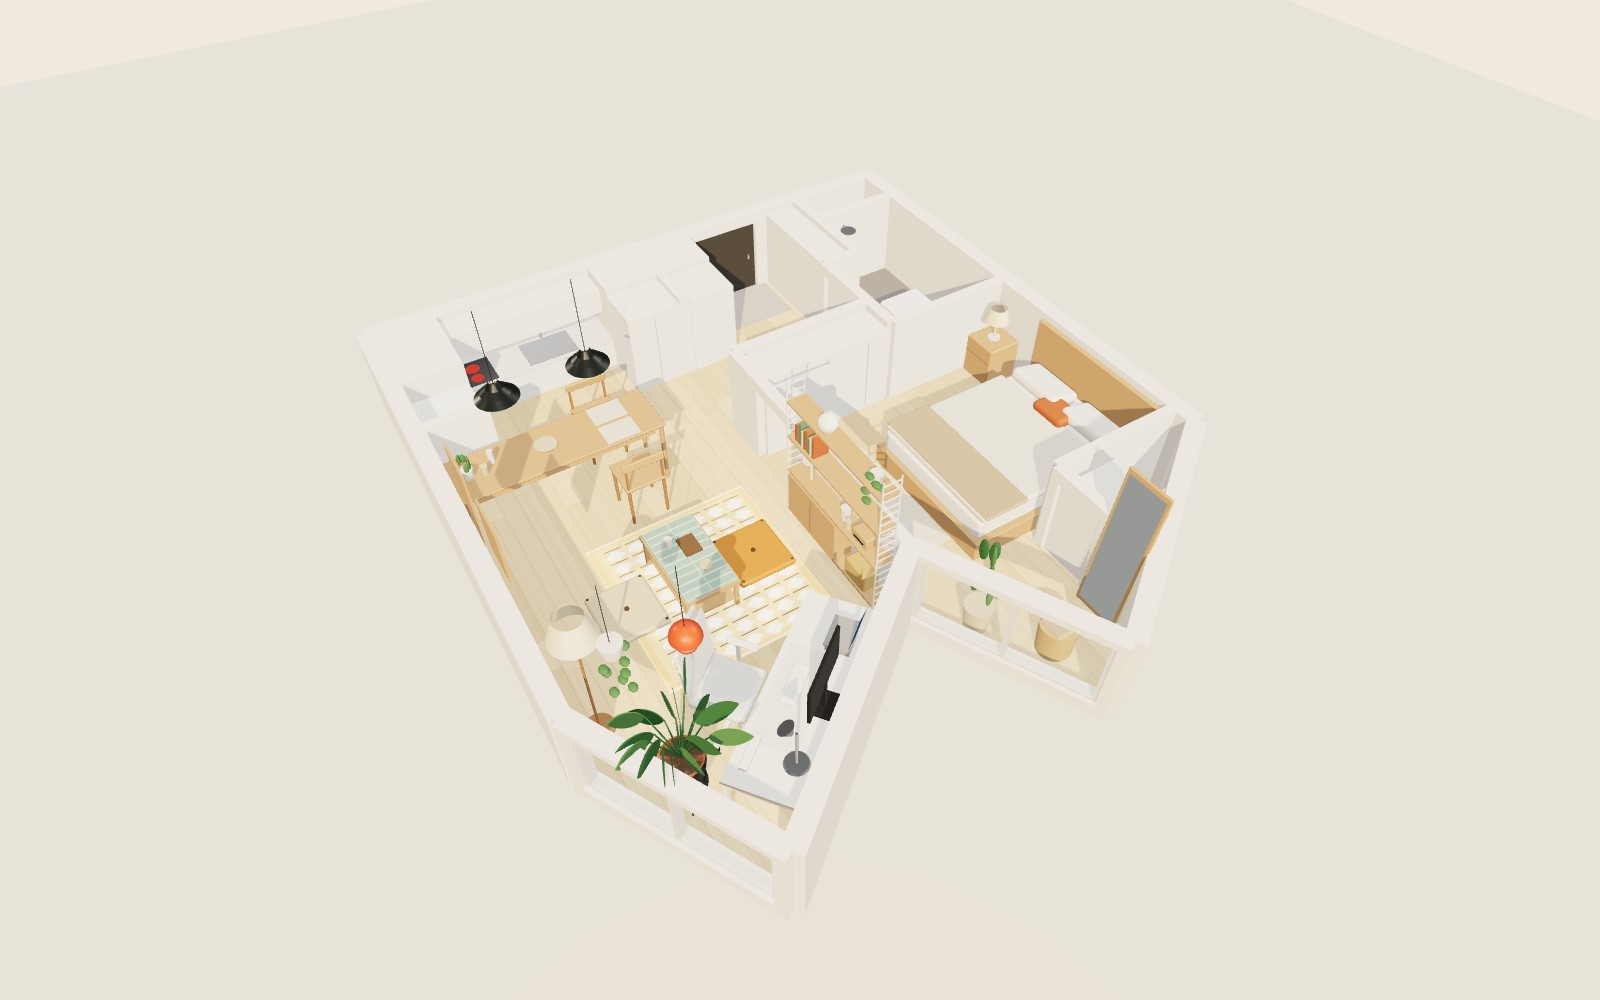
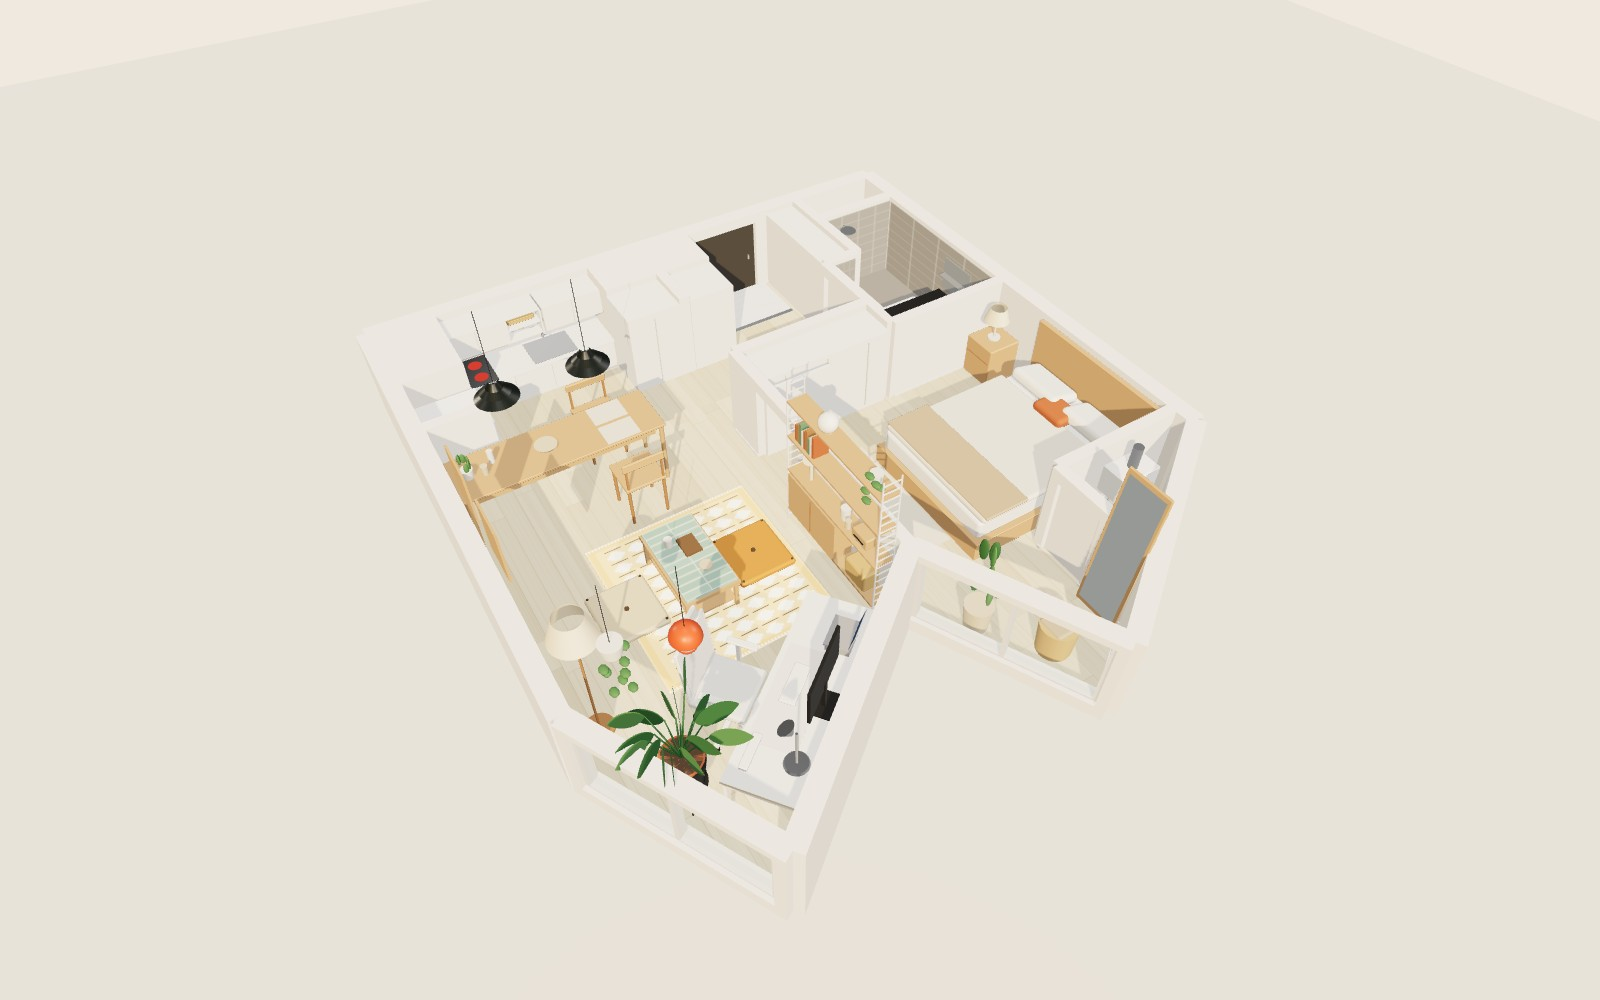
Reflect real 36-type details from move-in photos (kitchen, entrance, trims, boiler room)

diff --git a/index.html b/index.html
@@ -67,7 +67,7 @@
   · 퀸 침대 150×200 (헤드 오른쪽 벽, 아래벽 쪽으로 붙임 → 붙박이장 앞 68cm)<br>
   · 협탁 + 플리츠 스탠드, 러그, 전신거울, 화분
   <div class="sec">기본 설비 (도면 기준)</div>
-  · 주방 상·하부장, 냉장고 자리, 신발장, 붙박이장, 욕실, 다용도실
+  · 주방: 흰 하부장·쿼츠 상판·대리석풍 벽타일, 2구 인덕션 아래 드럼세탁기, 흰 2도어 냉장고<br>· 현관 대리석 타일, 흰 걸레받이·몰딩, 천장 환기장치, 보일러실(루버창)<br>· (블로그 실사진 36형 기준)
 </div>
 <div id="note" class="panel">
   마우스 드래그 = 회전 · 휠 = 확대 · 오른쪽 드래그 = 이동<br>
@@ -145,7 +145,7 @@ const floorTex = canvasTex(1024, 1024, (g, w, h) => {
     while (x < w) {
       const len = 700 + Math.floor(r() * 500);
       const base = 205 + Math.floor(r() * 20);
-      g.fillStyle = `rgb(${base + 22},${base - 6},${base - 52})`;
+      g.fillStyle = `rgb(${base + 12},${base - 2},${base - 34})`;
       g.fillRect(x, y, len, plank);
       for (let i = 0; i < 14; i++) {
         g.strokeStyle = `rgba(150,105,60,${0.05 + r() * 0.07})`;
@@ -210,6 +210,32 @@ const sheepTex = canvasTex(128, 128, (g, w, h) => {
   for (let i = 0; i < 900; i++) { g.fillStyle = i % 3 ? "rgba(255,255,255,0.7)" : "rgba(228,220,206,0.35)"; g.beginPath(); g.arc(r() * w, r() * h, 1 + r() * 3, 0, 7); g.fill(); }
 });
 
+const marbleTex = canvasTex(512, 512, (g, w, h) => {
+  g.fillStyle = "#f4f3f0"; g.fillRect(0, 0, w, h);
+  const r = rnd(31);
+  for (let i = 0; i < 14; i++) {
+    g.strokeStyle = `rgba(150,150,150,${0.15 + r() * 0.25})`; g.lineWidth = 0.6 + r() * 1.6;
+    g.beginPath(); let x = r() * w, y = 0; g.moveTo(x, y);
+    while (y < h) { x += (r() - 0.35) * 40; y += 20 + r() * 30; g.lineTo(x, y); } g.stroke();
+  }
+  g.strokeStyle = "rgba(170,170,170,0.6)"; g.lineWidth = 2; g.strokeRect(0, 0, w, h); g.beginPath(); g.moveTo(w / 2, 0); g.lineTo(w / 2, h); g.stroke();
+}, [1, 1]);
+const stoneTex = canvasTex(512, 256, (g, w, h) => {
+  g.fillStyle = "#ddd7cd"; g.fillRect(0, 0, w, h);
+  const r = rnd(41);
+  for (let i = 0; i < 40; i++) { g.strokeStyle = `rgba(245,240,232,${0.2 + r() * 0.3})`; g.lineWidth = 1 + r() * 3; g.beginPath(); const y = r() * h; g.moveTo(0, y); g.bezierCurveTo(w * 0.3, y + (r() - 0.5) * 30, w * 0.7, y + (r() - 0.5) * 30, w, y + (r() - 0.5) * 20); g.stroke(); }
+  g.strokeStyle = "rgba(160,150,140,0.7)"; g.lineWidth = 2; for (let x = 0; x <= w; x += w / 3) { g.beginPath(); g.moveTo(x, 0); g.lineTo(x, h); g.stroke(); } g.strokeRect(0, 0, w, h);
+});
+const quartzTex = canvasTex(256, 256, (g, w, h) => {
+  g.fillStyle = "#f3f0ea"; g.fillRect(0, 0, w, h); const r = rnd(51);
+  for (let i = 0; i < 700; i++) { g.fillStyle = `rgba(${150 + r() * 60},${140 + r() * 60},${130 + r() * 60},0.5)`; g.fillRect(r() * w, r() * h, 1 + r() * 2, 1 + r() * 2); }
+}, [3, 1]);
+const bathTileTex = canvasTex(256, 512, (g, w, h) => {
+  g.fillStyle = "#9b9a97"; g.fillRect(0, 0, w, h); const r = rnd(61);
+  for (let i = 0; i < 1500; i++) { g.fillStyle = `rgba(${120 + r() * 50},${120 + r() * 50},${118 + r() * 50},0.35)`; g.fillRect(r() * w, r() * h, 2, 2); }
+  g.strokeStyle = "rgba(220,220,215,0.8)"; g.lineWidth = 3; for (let y = 0; y <= h; y += h / 4) { g.beginPath(); g.moveTo(0, y); g.lineTo(w, y); g.stroke(); } for (let x = 0; x <= w; x += w / 2) { g.beginPath(); g.moveTo(x, 0); g.lineTo(x, h); g.stroke(); }
+}, [2, 2]);
+
 // ---------- 재질 ----------
 const M = (color, o = {}) => new THREE.MeshStandardMaterial({ color, roughness: 0.75, metalness: 0, ...o });
 const mat = {
@@ -258,6 +284,12 @@ const mat = {
   mirror: M("#e3ecef", { roughness: 0.04, metalness: 0.9 }),
 };
 const lampShades = [];
+mat.marble = new THREE.MeshStandardMaterial({ map: marbleTex, roughness: 0.1 });
+mat.stone = new THREE.MeshStandardMaterial({ map: stoneTex, roughness: 0.35 });
+mat.quartz = new THREE.MeshStandardMaterial({ map: quartzTex, roughness: 0.3 });
+mat.bathTile = new THREE.MeshStandardMaterial({ map: bathTileTex, roughness: 0.5 });
+mat.darkTile = M("#5d6062", { roughness: 0.7 });
+mat.seam = M("#d8d4cc", { roughness: 0.8 });
 const tall = []; // 벽 낮추기 때 같이 낮출 키 큰 고정물
 const ceils = []; // 천장·창밖 (벽 낮추기 때 숨김)
 const curtains = [];
@@ -337,8 +369,9 @@ floor(livingPoly, mat.floor);
 floor(bedPoly, mat.floor);
 floor([[953, 280], [1062, 280], [1062, 490], [910, 490], [910, 362], [953, 362]], mat.bathFloor, 0.5);
 floor([[953, 224], [1062, 224], [1062, 280], [953, 280]], mat.tileFloor);
-floor([[912, 739], [1062, 739], [1062, 762], [912, 860]], mat.tileFloor, 0.5);
-floor([[812, 224], [905, 224], [905, 300], [812, 300]], mat.tileFloor, 1);
+floor([[912, 739], [1062, 739], [1062, 762], [912, 860]], mat.darkTile, 0.5);
+floor([[812, 224], [905, 224], [905, 300], [812, 300]], mat.marble, 1);
+{ const th = place(858, 300, 0, 1); B(th, 93, 1.6, 3, mat.chrome, 0, 0, 0); }
 // 바깥 바닥(그림자 받는 판)
 const ground = new THREE.Mesh(new THREE.PlaneGeometry(30, 30), new THREE.MeshStandardMaterial({ color: "#e6dfd3", roughness: 1 }));
 ground.rotation.x = -Math.PI / 2; ground.position.set(cm(750), -0.01, cm(570)); ground.receiveShadow = false; scene.add(ground);
@@ -380,19 +413,41 @@ wall(746, 224, 746, 340, IN);                                                   
 }
 
 // ---------- 주방 · 수납 (도면 기준) ----------
-{ // 하부장 + 상판
+{ // 주방: 손잡이 없는 흰 하부장 + 쿼츠 상판 + 대리석풍 벽타일 + 인덕션 아래 드럼세탁기 + 상부장(가운데 오픈 선반)
   const g = place(592, 233, 0, 1, true);
   B(g, 174, 84, 53, mat.white, 0, 0, 26.5);
-  B(g, 176, 4, 55, M("#e5e1da", { roughness: 0.35 }), 0, 84, 27.5);
-  B(g, 40, 0.6, 42, mat.cooktop, -64, 88, 28);
-  CY(g, 8, 8, 0.4, mat.ring, -64, 88.5, 20); CY(g, 7, 7, 0.4, mat.ring, -64, 88.5, 38);
-  B(g, 56, 1, 40, mat.steel, 20, 87.6, 28);
-  CY(g, 1.3, 1.3, 26, mat.chrome, 20, 88, 6);
-  // 상부장
-  B(g, 174, 70, 34, mat.white, 0, 150, 17);
+  for (const sx of [-29, 13, 50]) B(g, 0.6, 74, 0.6, mat.seam, sx, 8, 53.4);
+  B(g, 174, 8, 1, M("#e6e2da"), 0, 0, 50);
+  // 드럼세탁기 (인덕션 아래, 왼쪽 끝)
+  B(g, 56, 80, 1, mat.whiteGloss, -58, 3, 53.6);
+  const dr = CY(g, 14, 14, 2, M("#2f3a40", { roughness: 0.08, metalness: 0.3 }), -58, 34, 54.6, 32); dr.rotation.x = Math.PI / 2;
+  const rg = CY(g, 16.5, 16.5, 1.2, mat.chrome, -58, 34.4, 54.2, 32); rg.rotation.x = Math.PI / 2;
+  B(g, 50, 6, 0.8, M("#e9e9e9"), -58, 72, 54.2);
+  // 쿼츠 상판 + 대리석풍 벽타일
+  B(g, 176, 4, 55, mat.quartz, 0, 84, 27.5);
+  const bs = new THREE.Mesh(new THREE.PlaneGeometry(cm(174), cm(62)), mat.stone); bs.position.set(0, cm(119), cm(0.5)); g.add(bs);
+  // 2구 인덕션 (세탁기 위)
+  B(g, 30, 0.6, 50, mat.cooktop, -60, 88, 27);
+  CY(g, 7.5, 7.5, 0.3, mat.ring, -60, 88.6, 16); CY(g, 7.5, 7.5, 0.3, mat.ring, -60, 88.6, 38);
+  // 사각 싱크볼 + 거위목 수전
+  B(g, 50, 1, 40, mat.steel, 22, 87.6, 28);
+  CY(g, 1.3, 1.3, 30, mat.chrome, 22, 88, 6); B(g, 2.4, 2.4, 15, mat.chrome, 22, 116, 13);
+  // 상부장: 왼쪽 문 / 가운데 오픈 선반 / 오른쪽 문
+  B(g, 68, 70, 34, mat.white, -53, 150, 17); B(g, 0.6, 66, 0.6, mat.seam, -53, 152, 34.4);
+  B(g, 40, 70, 1, mat.white, -1, 150, 0.5); B(g, 1.6, 70, 34, mat.white, -20.2, 150, 17); B(g, 1.6, 70, 34, mat.white, 18.2, 150, 17);
+  for (const hh of [150, 184, 218.4]) B(g, 40, 1.6, 34, mat.white, -1, hh, 17);
+  CY(g, 4, 3.5, 9, mat.ceramic, -10, 151.6, 14); CY(g, 4, 3.5, 9, mat.ceramic2, -1, 151.6, 14); CY(g, 6, 4, 5, mat.ceramic, 9, 151.6, 16);
+  B(g, 30, 12, 20, mat.rattan, -1, 185.6, 15, 2);
+  B(g, 66, 70, 34, mat.white, 54, 150, 17); B(g, 0.6, 66, 0.6, mat.seam, 54, 152, 34.4);
+  // 숨은형 후드 + 상부장 아래 간접조명
+  B(g, 60, 4, 30, M("#d9d9d9", { roughness: 0.4, metalness: 0.4 }), -53, 146, 18);
+}
+{ // 주방 천장 일자 LED
+  const led = new THREE.Mesh(new THREE.BoxGeometry(cm(120), cm(1.5), cm(10)), new THREE.MeshStandardMaterial({ color: "#ffffff", emissive: "#fff8ec", emissiveIntensity: 0.8 }));
+  led.position.set(cm(600), cm(H - 1), cm(318)); scene.add(led); window.__kitchenLed = led; ceils.push(led);
 }
 { const g = place(476, 233, 0, 1, true); B(g, 70, H, 90, mat.wall, 0, 0, 45); }        // 도면상 막힌 칸 (샤프트 추정)
-{ const g = place(452, 356, 1, 0, true); B(g, 62, 182, 58, mat.whiteGloss, 0, 0, 29); }  // 냉장고 자리
+{ const g = place(452, 356, 1, 0, true); B(g, 60, 168, 62, mat.whiteGloss, 0, 0, 31, 1.5); B(g, 60, 0.6, 0.6, mat.seam, 0, 122, 62.4); B(g, 2, 26, 2.5, M("#cfcac2"), 24, 88, 63); B(g, 2, 20, 2.5, M("#cfcac2"), 24, 128, 63); }  // 냉장고 자리
 { const a = place(710, 286, 0, 1, true); B(a, 61, 225, 54, mat.white, 0, 0, 27); B(a, 1, 200, 1, M("#d8d3cb"), 0, 10, 54.5);   // 키큰 수납장 1
   const b = place(779, 286, 0, 1, true); B(b, 53, 225, 54, mat.white, 0, 0, 27);                                            // 키큰 수납장 2
   const v = place(743, 224, 0, 1, true); B(v, 125, H, 61, mat.wall, 0, 0, 30.5); }                                           // 위쪽 막힌 칸 (샤프트 추정)
@@ -402,13 +457,22 @@ wall(746, 224, 746, 340, IN);                                                   
 { // 욕실
   const t = place(1025, 486, 0, -1); // 변기
   B(t, 38, 40, 20, mat.whiteGloss, 0, 0, 10, 6); B(t, 36, 38, 46, mat.whiteGloss, 0, 0, 36, 12);
-  const v = place(950, 486, 0, -1); B(v, 60, 82, 46, mat.white, 0, 0, 23); B(v, 50, 12, 38, mat.whiteGloss, 0, 82, 22, 5);
+  const v = place(950, 484, 0, -1); B(v, 50, 16, 40, mat.whiteGloss, 0, 68, 20, 6); B(v, 72, 3, 14, M("#232323", { roughness: 0.3 }), 0, 98, 7); CY(v, 1.2, 1.2, 14, mat.chrome, 0, 84, 8);
+  const tw = place(1052, 425, -1, 0, true); B(tw, 46, 92, 1.5, M("#c6cacd", { roughness: 0.3, metalness: 0.6 }), 0, 100, 1); B(tw, 42, 1.2, 10, M("#c6cacd", { roughness: 0.3, metalness: 0.6 }), 0, 146, 5);
   const gl = new THREE.Mesh(new THREE.BoxGeometry(cm(100), cm(200), cm(1)), mat.glass); gl.position.set(cm(1005), cm(100), cm(364)); scene.add(gl); curtains.push(gl);
   const sh = place(985, 284, 0, 1, true); CY(sh, 1, 1, 180, mat.chrome, 0, 20, 4); CY(sh, 9, 9, 2, mat.chrome, 0, 195, 14);
 }
-{ // 다용도실 세탁기
-  const g = place(976, 778, -1, 0); B(g, 58, 85, 58, mat.whiteGloss, 0, 0, 29, 3);
-  CY(g, 15, 15, 2, M("#8fa3ad", { roughness: 0.1 }), 0, 40, 58).rotation.x = Math.PI / 2;
+{ // 보일러실: 벽걸이 보일러 + 배관 + 연도
+  const g = place(990, 745, 0, 1, true);
+  B(g, 44, 72, 30, mat.whiteGloss, 0, 108, 15, 2);
+  for (const [x, c] of [[-14, "#c9c9c9"], [-5, "#e0b33a"], [5, "#c9c9c9"], [14, "#c9c9c9"]]) CY(g, 1.2, 1.2, 40, M(c, { roughness: 0.4, metalness: 0.3 }), x, 68, 12, 10);
+  CY(g, 5, 5, 58, mat.chrome, 0, 180, 15, 16);
+}
+{ // 보일러실 루버창 (검정 가로 날개)
+  const x1 = 832, y1 = 912, x2 = 1062, y2 = 762, L = Math.hypot(x2 - x1, y2 - y1), ux = (x2 - x1) / L, uy = (y2 - y1) / L, c = 185;
+  const grp = new THREE.Group(); grp.position.set(cm(x1 + ux * c), 0, cm(y1 + uy * c)); grp.rotation.y = -Math.atan2(uy, ux); wallGroup.add(grp);
+  const lm = M("#2b2d2f", { roughness: 0.5 });
+  for (let h = 95; h < 202; h += 8) { const sl = B(grp, 62, 1, 6, lm, 0, h, 0); sl.rotation.x = 0.5; }
 }
 
 // ---------- 거실: 화이트 장책상 (꺾인 막힌 벽) ----------
@@ -662,6 +726,45 @@ railing(441, 742, 530, 912, 30); railing(747, 745, 832, 912, 40);
   const pl = new THREE.PointLight("#ffb46a", 0, 3, 2); pl.position.set(0, cm(150), 0); fp.add(pl); window.__flowerpot = pl;
 }
 
+// ---------- 걸레받이 · 천장 몰딩 (실사진: 흰색) ----------
+{
+  const OUTER = [[441, 224, 1062, 224], [441, 224, 441, 742], [441, 742, 530, 912], [530, 912, 747, 745], [747, 745, 832, 912], [832, 912, 1062, 762], [1062, 224, 1062, 762]];
+  const DOORS = [[815, 224, 895, 224], [747, 500, 747, 578], [910, 370, 910, 438], [912, 749, 912, 801]];
+  const segDist = (px, py, [x1, y1, x2, y2]) => { const dx = x2 - x1, dy = y2 - y1, t = Math.max(0, Math.min(1, ((px - x1) * dx + (py - y1) * dy) / (dx * dx + dy * dy))); return Math.hypot(px - x1 - t * dx, py - y1 - t * dy); };
+  const inside = (poly, x, y) => { let c = false; for (let i = 0, j = poly.length - 1; i < poly.length; j = i++) { const [xi, yi] = poly[i], [xj, yj] = poly[j]; if (((yi > y) !== (yj > y)) && (x < ((xj - xi) * (y - yi)) / (yj - yi) + xi)) c = !c; } return c; };
+  const bm = M("#f7f5f1", { roughness: 0.5 });
+  function trim(poly, withBase, withCrown, panelMat) {
+    for (let i = 0; i < poly.length; i++) {
+      const [ax, ay] = poly[i], [bx, by] = poly[(i + 1) % poly.length];
+      const L = Math.hypot(bx - ax, by - ay), ux = (bx - ax) / L, uy = (by - ay) / L;
+      let nx = -uy, ny = ux; const mx = (ax + bx) / 2, my = (ay + by) / 2;
+      if (!inside(poly, mx + nx * 5, my + ny * 5)) { nx = -nx; ny = -ny; }
+      const off = OUTER.some((sg) => segDist(mx, my, sg) < 3) ? 9.1 : 6.1;
+      let spans = [[off, L - off]];
+      for (const d of DOORS) {
+        if (segDist(d[0], d[1], [ax, ay, bx, by]) < 3 && segDist(d[2], d[3], [ax, ay, bx, by]) < 3) {
+          const s1 = (d[0] - ax) * ux + (d[1] - ay) * uy, s2 = (d[2] - ax) * ux + (d[3] - ay) * uy, lo = Math.min(s1, s2), hi = Math.max(s1, s2);
+          spans = spans.flatMap(([a, b]) => [[a, Math.min(b, lo)], [Math.max(a, hi), b]]).filter(([a, b]) => b - a > 2);
+        }
+      }
+      for (const [a, b] of spans) {
+        const c = (a + b) / 2, len = b - a, px = ax + ux * c, py = ay + uy * c;
+        const mk = (h0, h, th, group, material) => { const m = shadowy(new THREE.Mesh(new THREE.BoxGeometry(cm(len), cm(h), cm(th)), material)); m.position.set(cm(px + nx * (off + th / 2)), cm(h0 + h / 2), cm(py + ny * (off + th / 2))); m.rotation.y = -Math.atan2(uy, ux); group.add(m); if (group === scene) ceils.push(m); };
+        if (withBase) mk(0, 7, 1.2, wallGroup, bm);
+        if (withCrown) mk(H - 5, 5, 2.5, scene, bm);
+        if (panelMat) mk(0, 228, 0.6, wallGroup, panelMat);
+      }
+    }
+  }
+  trim(livingPoly, true, true); trim(bedPoly, true, true);
+  trim([[953, 280], [1062, 280], [1062, 490], [910, 490], [910, 362], [953, 362]], false, false, mat.bathTile);
+}
+{ // 천장 환기장치(전열교환기) 패널 + 화재감지기
+  for (const [x, y] of [[585, 712], [880, 640]]) { const p = new THREE.Mesh(new THREE.BoxGeometry(cm(58), cm(3), cm(58)), M("#f4f2ee", { roughness: 0.6 })); p.position.set(cm(x), cm(H - 1.5), cm(y)); scene.add(p); ceils.push(p);
+    const gr = new THREE.Mesh(new THREE.BoxGeometry(cm(40), cm(0.5), cm(8)), M("#d9d6cf")); gr.position.set(cm(x), cm(H - 3.2), cm(y + 18)); scene.add(gr); ceils.push(gr); }
+  for (const [x, y] of [[620, 560], [900, 560], [700, 360]]) { const d = new THREE.Mesh(new THREE.CylinderGeometry(cm(5), cm(5), cm(2), 20), M("#fbfbfb")); d.position.set(cm(x), cm(H - 1), cm(y)); scene.add(d); ceils.push(d); }
+}
+
 // ---------- 조명 ----------
 const hemi = new THREE.HemisphereLight("#fff4e2", "#cdb89a", 0.45); scene.add(hemi);
 const amb = new THREE.AmbientLight("#ffffff", 0.25); scene.add(amb);
@@ -680,7 +783,7 @@ function setMode(night) {
   if (window.__treeMat) window.__treeMat.color.set(night ? "#33424a" : "#ffffff");
   sun.intensity = night ? 0 : 3.2; fill.intensity = night ? 0.05 : 0.5; bounce.intensity = night ? 0 : 0.6;
   mat.curtain.emissiveIntensity = night ? 0.02 : 0.35; mat.glow.emissiveIntensity = night ? 2.0 : 0;
-  window.__flowerpot.intensity = night ? 0.8 : 0; window.__ball.material.emissiveIntensity = night ? 0.9 : 0;
+  window.__flowerpot.intensity = night ? 0.8 : 0; if (window.__kitchenLed) window.__kitchenLed.material.emissiveIntensity = night ? 1.6 : 0.8; window.__ball.material.emissiveIntensity = night ? 0.9 : 0;
   window.__pendant.intensity = night ? 2.2 : 0; window.__floorLamp.intensity = night ? 1.6 : 0;
   window.__bedLamp.intensity = night ? 1.2 : 0; window.__ledLight.intensity = night ? 1.4 : 0;
   mat.shade.emissiveIntensity = night ? 1.4 : 0; mat.led.emissiveIntensity = night ? 3 : 1.2;
